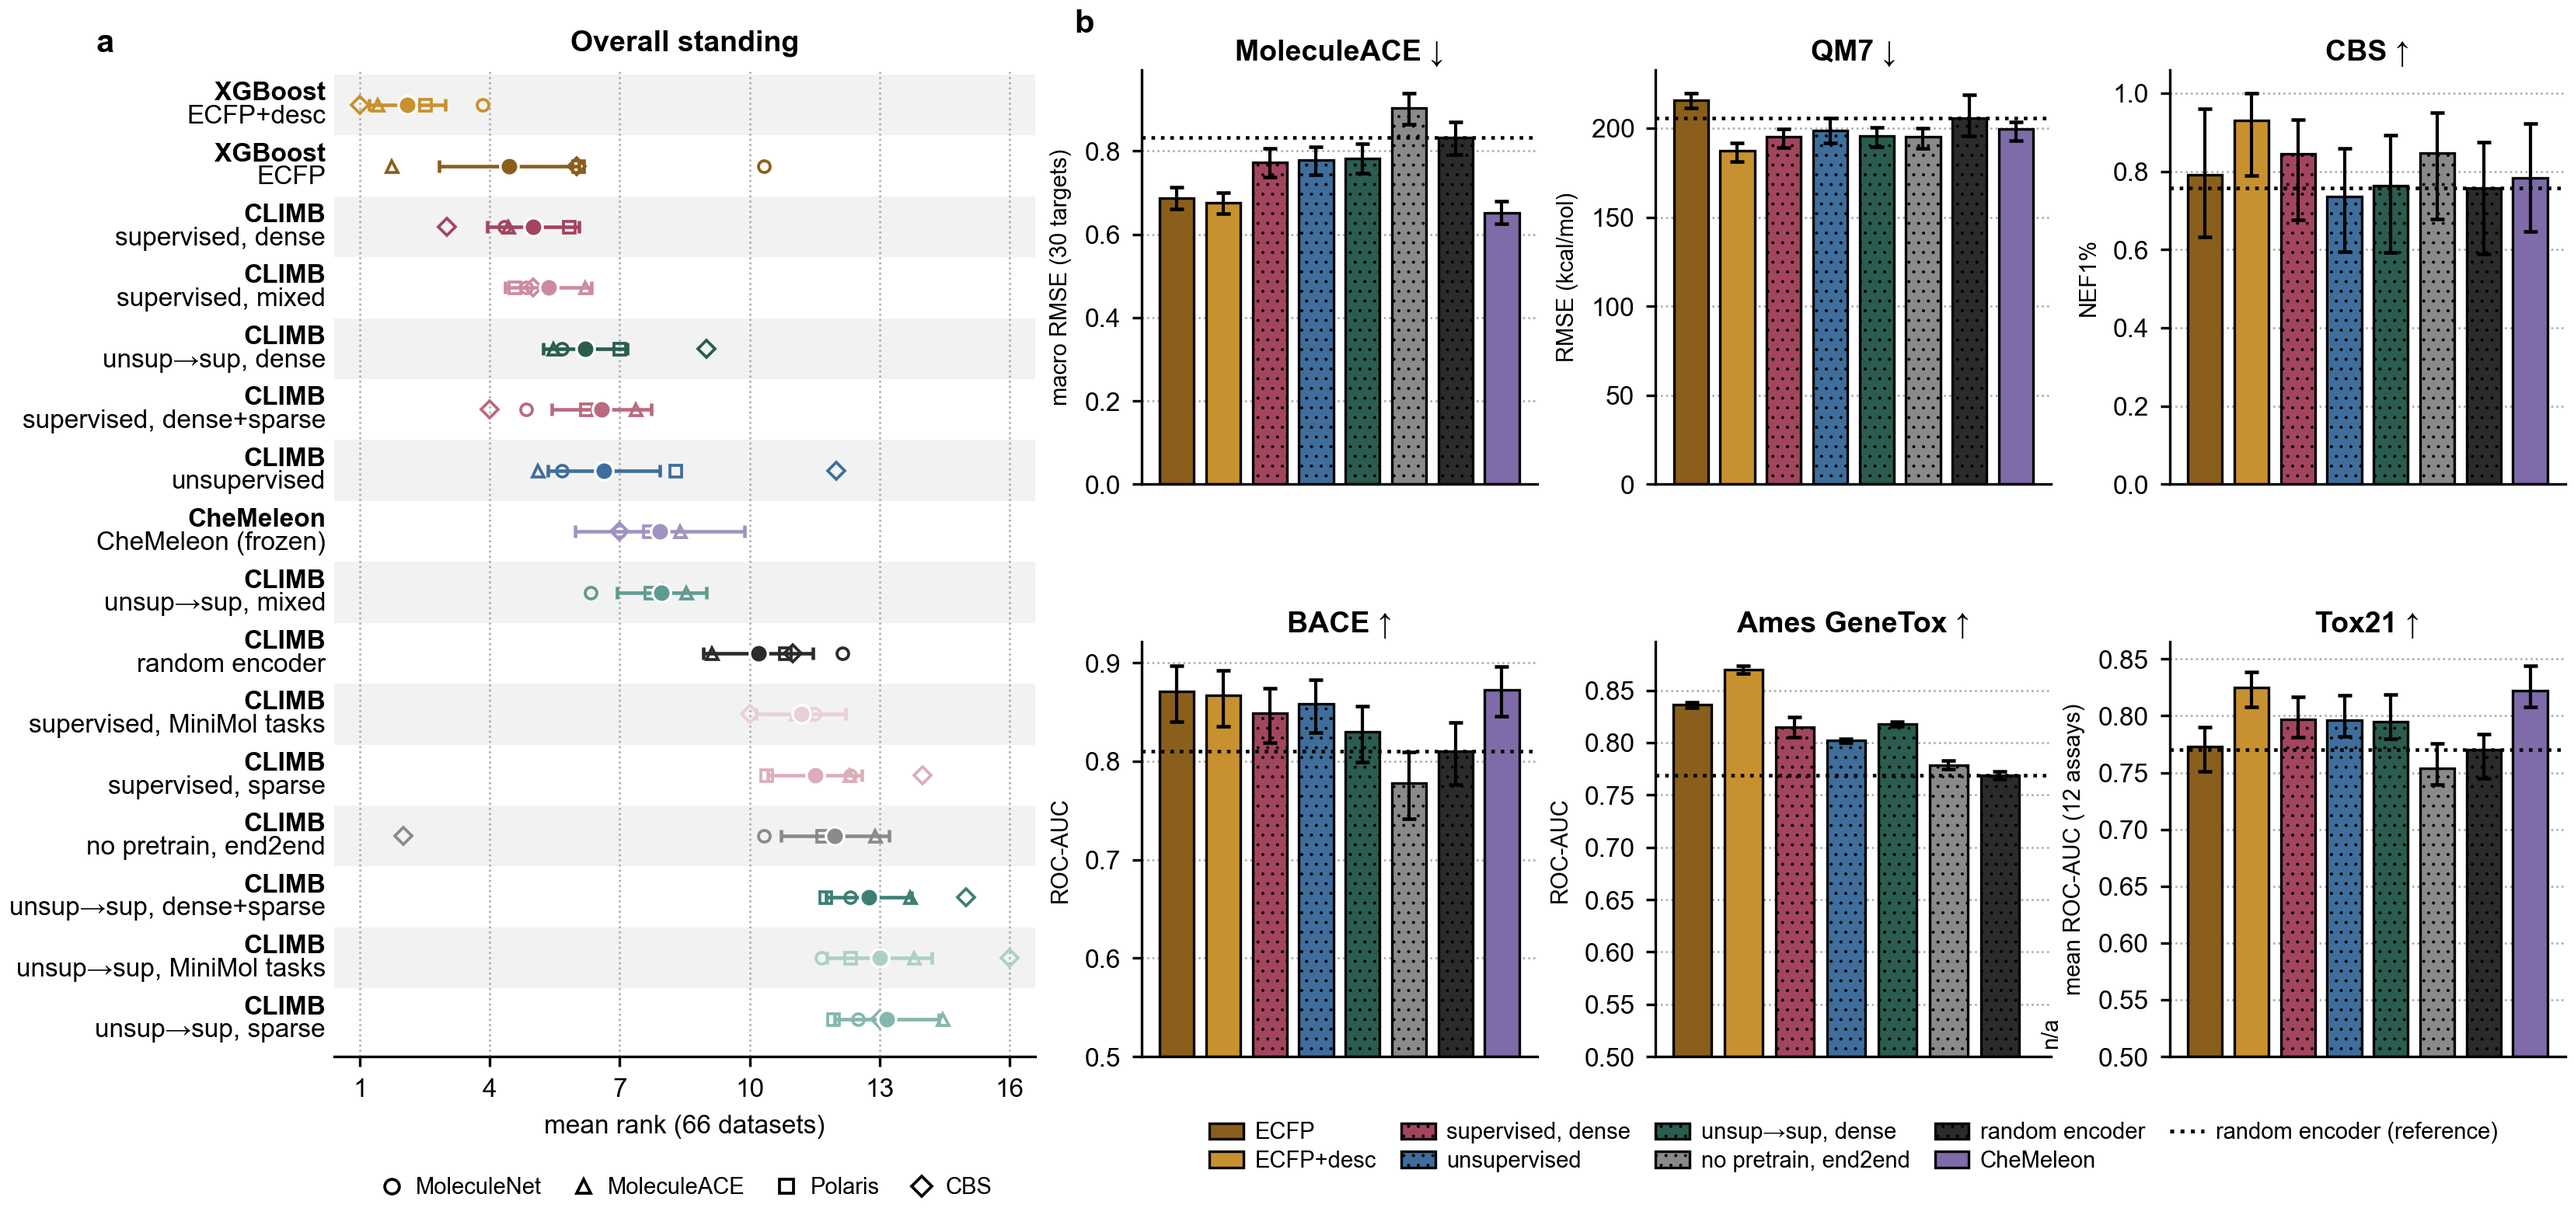
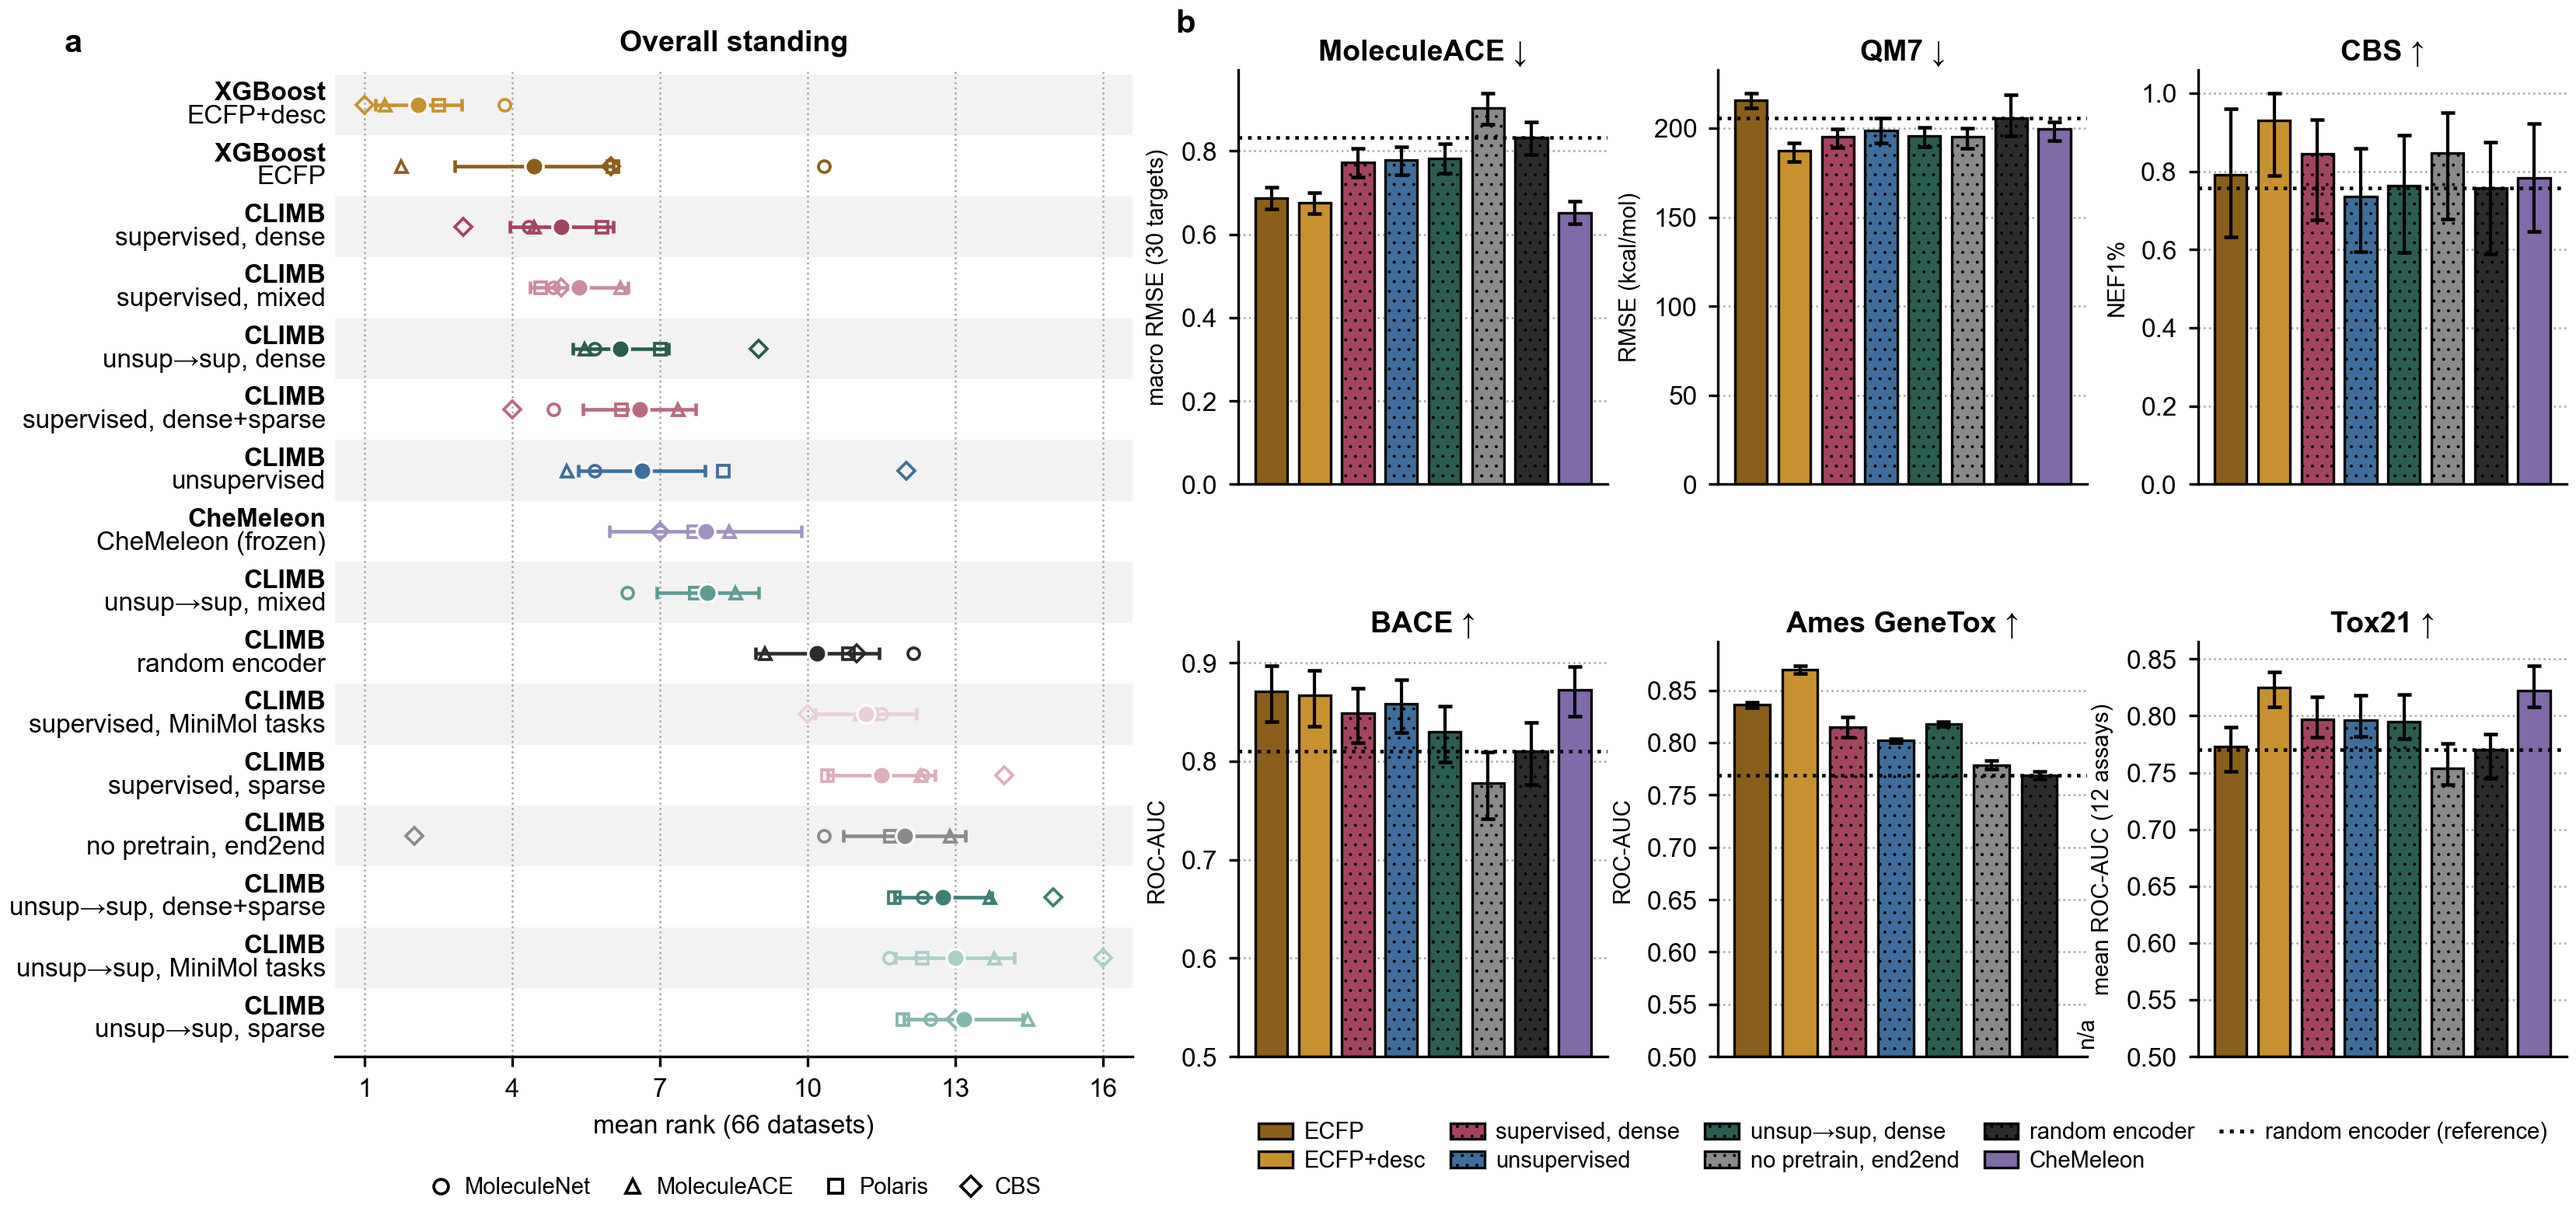
fig_A: widen panel a (left_frac 0.33 -> 0.375) and tuck panel b's legend closer

diff --git a/figures/fig_A.py b/figures/fig_A.py
@@ -42,7 +42,7 @@ PANEL_GRID = [["MoleculeACE", "QM7", "CBS"], ["BACE", "Ames", "Tox21"]]
 WIDTH = 11.0
 
 
-def build(height=5.5, left_frac=0.33):
+def build(height=5.5, left_frac=0.375):
     fig = plt.figure(figsize=(WIDTH, height))
     # wspace is generous: the right-hand panels carry y-labels that would otherwise land on top
     # of the ranking panel. bottom reserves a band for BOTH legends.
